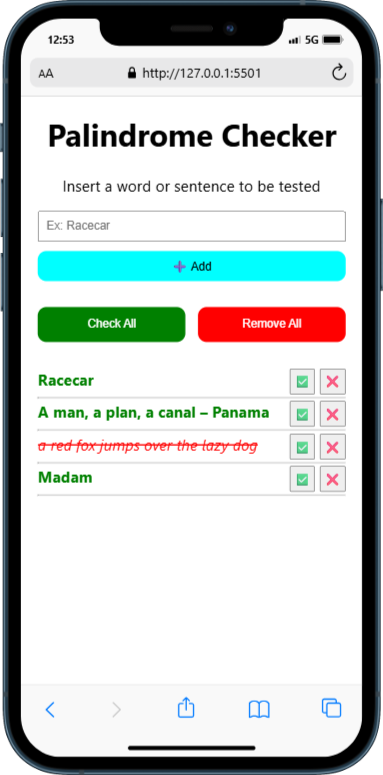
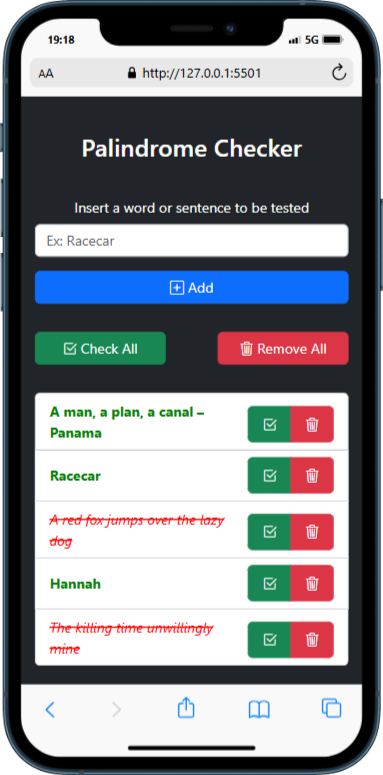
style: Add Bootstrap

diff --git a/index.html b/index.html
@@ -19,12 +19,12 @@
 
   <body class="text-bg-dark my-4">
     <!-- CABEÇALHO -->
-    <div class="container-fluid p-3">
+    <div class="container-fluid col-lg-6 col-md-8 p-3">
       <h1 class="text-center">Palindrome Checker</h1>
     </div>
 
     <!-- INPUT -->
-    <section class="container-fluid p-3">
+    <section class="container-fluid col-lg-6 col-md-8 p-3">
       <div class="col">
         <label class="col-12 text-center" for="inputString"
           >Insert a word or sentence to be tested</label
@@ -50,7 +50,10 @@
     </section>
 
     <!-- VERIFICAL TUDO E REMOVER TUDO -->
-    <section id="actionButtonsSection" class="container-fluid p-3">
+    <section
+      id="actionButtonsSection"
+      class="container-fluid col-lg-6 col-md-8 p-3"
+    >
       <div
         id="actionButtonsContainer"
         class="row p-0 m-0 justify-content-between"
@@ -73,7 +76,7 @@
     </section>
 
     <!-- LISTA -->
-    <section class="listSection container-fluid p-3">
+    <section class="listSection container-fluid col-lg-6 col-md-8 p-3">
       <div class="listContainer">
         <ul id="listItems" class="list-group"></ul>
       </div>

diff --git a/README.md b/README.md
@@ -7,6 +7,7 @@ Este é um simples verificador de palíndromos web. Permite que você insira pal
 ## Demonstração
 
 ![Captura de tela do Palindrome Checker](./screenshots/iPhone-12-PRO.png)
+![Captura de tela do Palindrome Checker](./screenshots/Macbook-Air.png)
 
 <!-- ![Captura de tela do Palindrome Checker](./screenshots/Galaxy-S21-Ultra.png) -->
 
